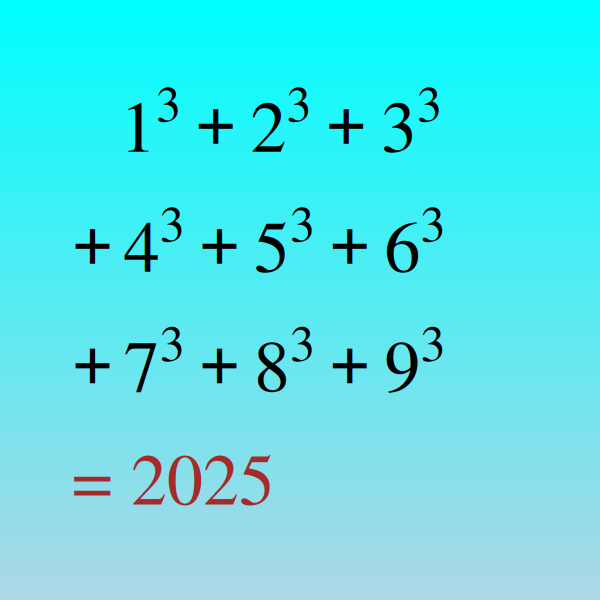
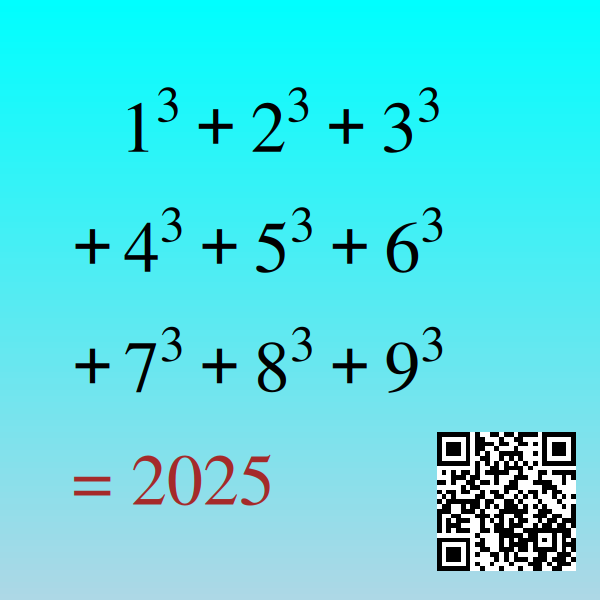
Update plot.R to include QR code generation and modify README to source the plot script

Changed region(s): [[0.72, 0.72, 0.96, 0.96]]

diff --git a/README.md b/README.md
@@ -1,3 +1,7 @@
 # Cube Sum 2025
 
+```{r}
+source("plot.R")
+```
+
 ![Cube Sum 2025](plot.png)
